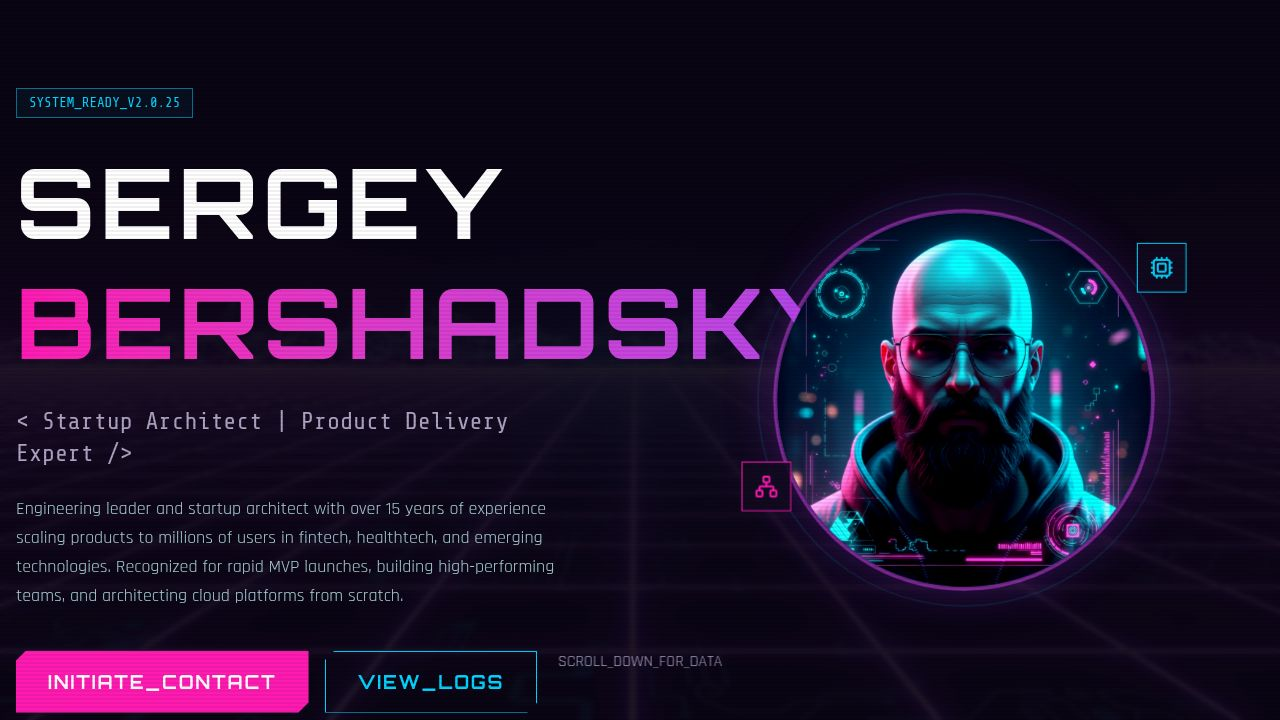
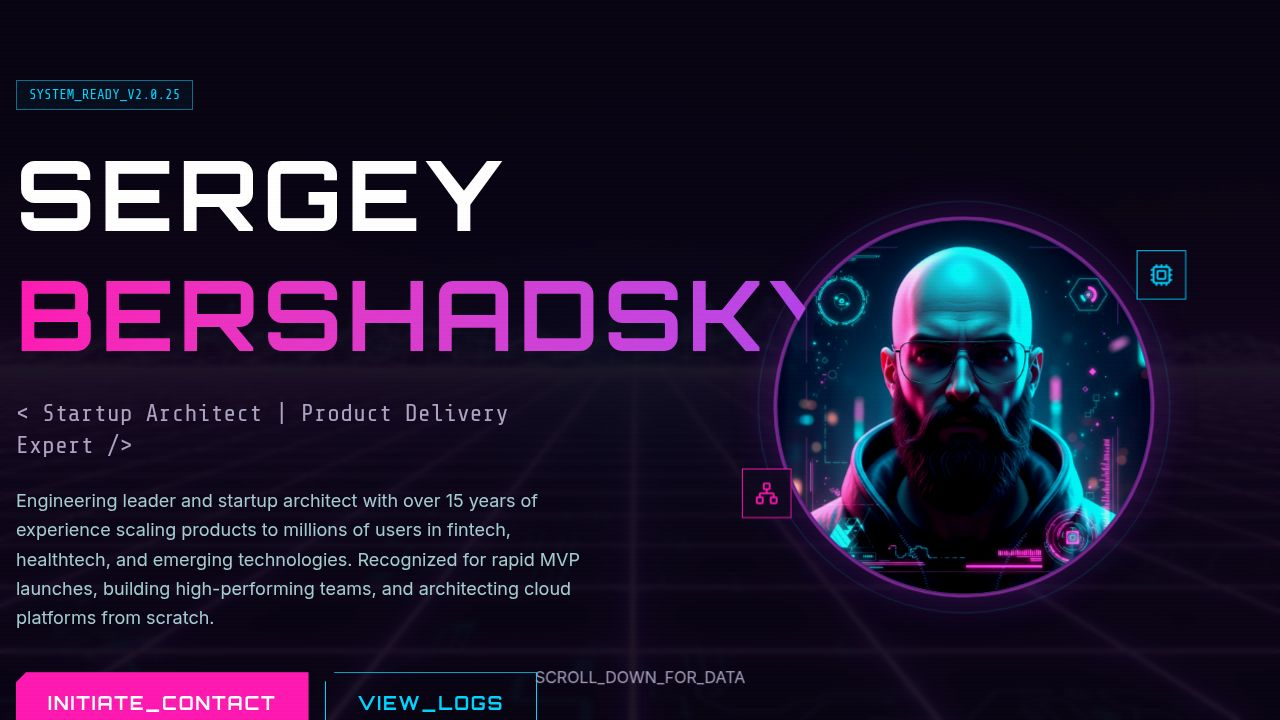
Improve text readability and fix scrolling issues
Update primary font to Inter and reduce scanline opacity in index.css and home.tsx.

Replit-Commit-Author: Agent
Replit-Commit-Session-Id: b1cbc0b6-aa52-4fc0-abc3-7be5d2dccc54
Replit-Commit-Checkpoint-Type: full_checkpoint
Replit-Commit-Event-Id: cf38823f-137f-40d7-94e0-8f7c5fd76ecd
Replit-Commit-Screenshot-Url: https://storage.googleapis.com/screenshot-production-us-central1/92764e3c-ea01-4f5d-af64-2fff8c2212ad/b1cbc0b6-aa52-4fc0-abc3-7be5d2dccc54/hcYJSDl
Replit-Helium-Checkpoint-Created: true

diff --git a/client/index.html b/client/index.html
@@ -17,7 +17,7 @@
     <link rel="icon" type="image/png" href="/favicon.png" />
     <link rel="preconnect" href="https://fonts.googleapis.com">
     <link rel="preconnect" href="https://fonts.gstatic.com" crossorigin>
-    <link href="https://fonts.googleapis.com/css2?family=Orbitron:wght@400;500;700;900&family=Rajdhani:wght@300;400;500;600;700&family=Share+Tech+Mono&display=swap" rel="stylesheet">
+    <link href="https://fonts.googleapis.com/css2?family=Inter:wght@300;400;500;600;700&family=Orbitron:wght@400;500;700;900&family=Rajdhani:wght@300;400;500;600;700&family=Share+Tech+Mono&display=swap" rel="stylesheet">
   </head>
   <body>
     <div id="root"></div>

diff --git a/client/src/pages/home.tsx b/client/src/pages/home.tsx
@@ -15,7 +15,7 @@ export default function Home() {
         style={{ backgroundImage: `url(${bgImage})` }}
       />
       <div className="fixed inset-0 z-[-1] bg-background/80 backdrop-blur-[2px]" />
-      <div className="fixed inset-0 z-[50] pointer-events-none scanlines opacity-30" />
+      <div className="fixed inset-0 z-[50] pointer-events-none scanlines opacity-[0.03]" />
 
       {/* Hero Section */}
       <section className="min-h-screen flex flex-col items-center justify-center relative px-4 pt-20">

diff --git a/client/src/index.css b/client/src/index.css
@@ -24,7 +24,7 @@
   --color-input: hsl(var(--input));
   --color-ring: hsl(var(--ring));
   
-  --font-sans: 'Rajdhani', sans-serif;
+  --font-sans: 'Inter', sans-serif;
   --font-display: 'Orbitron', sans-serif;
   --font-mono: 'Share Tech Mono', monospace;
   
